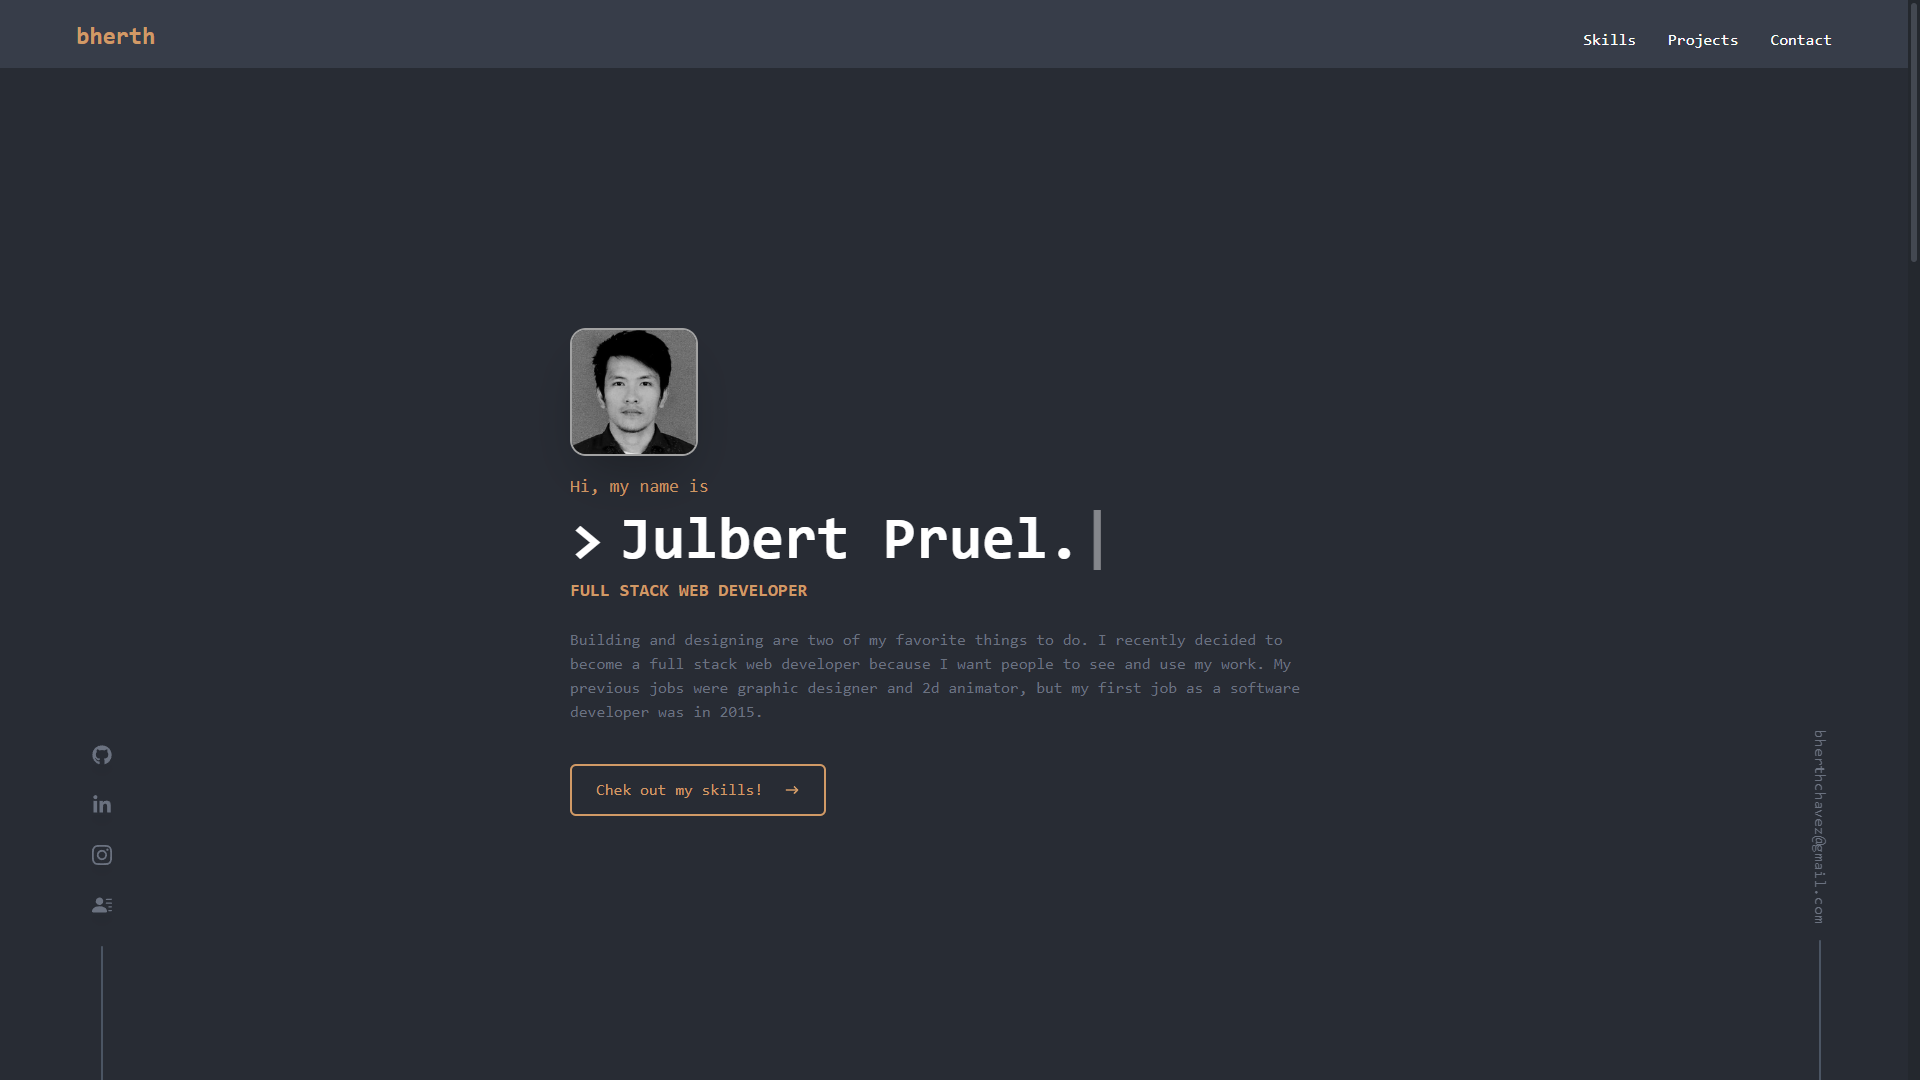
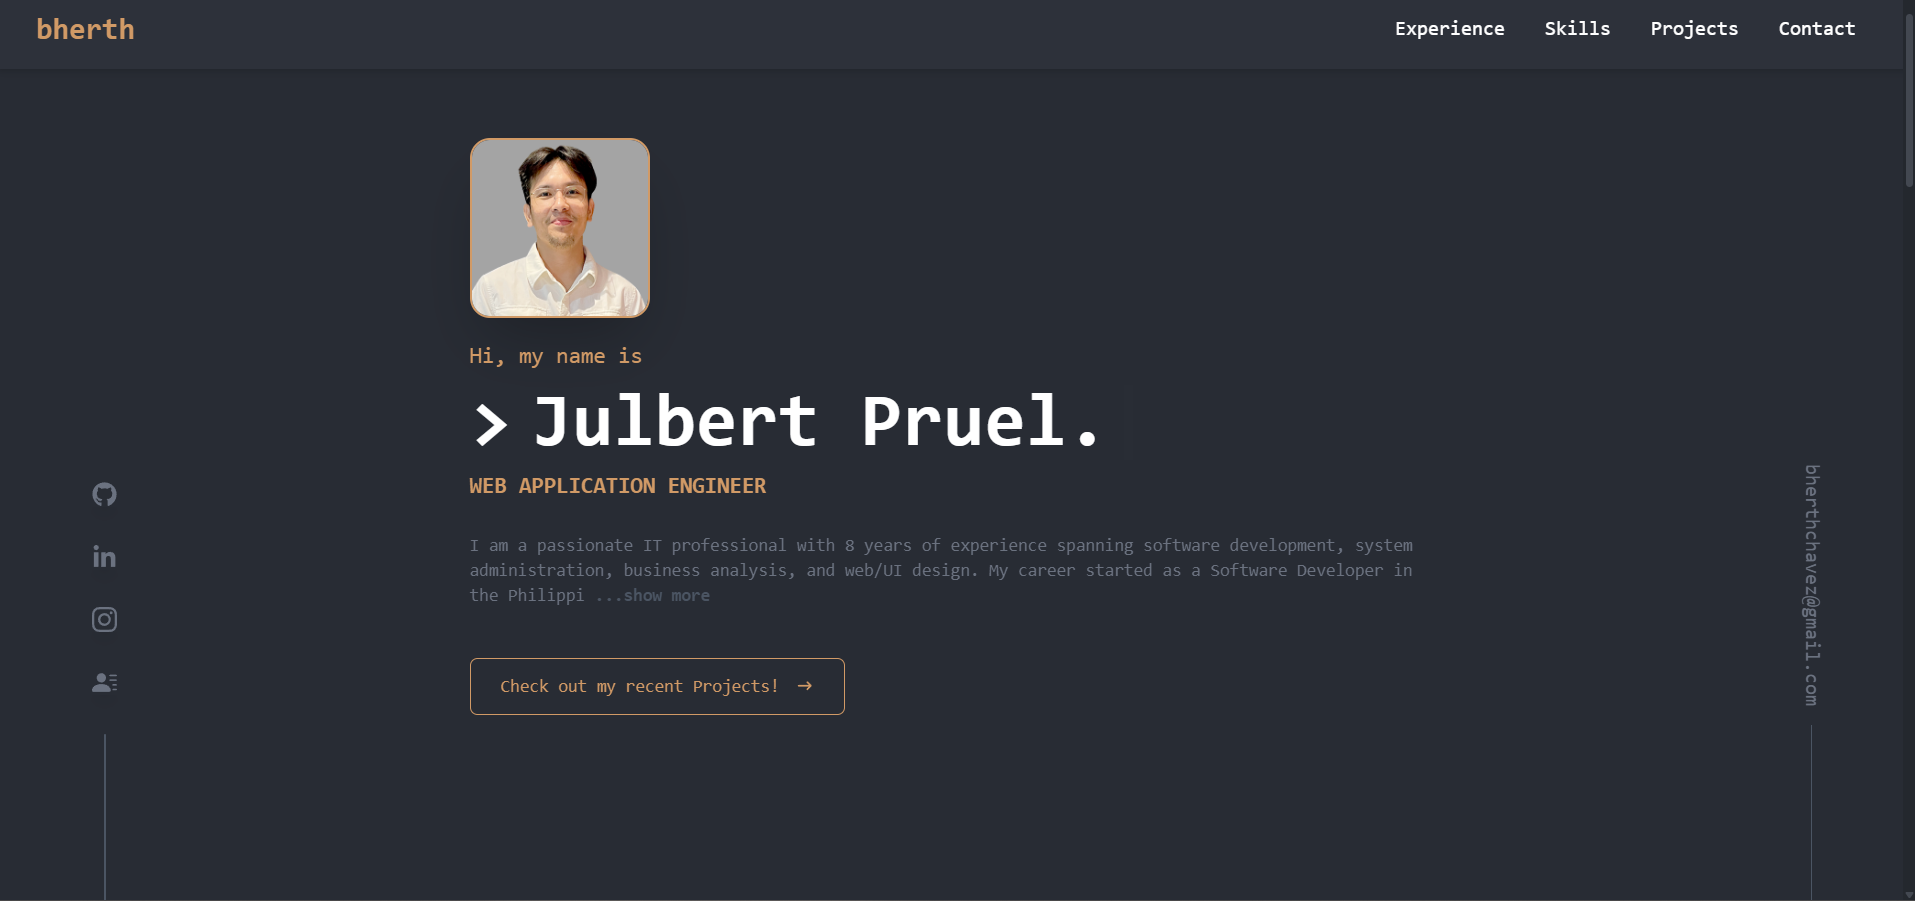
update: description

diff --git a/src/components/ExpData.js b/src/components/ExpData.js
@@ -56,7 +56,7 @@ export const ExpData = [
 // Proficient in the MERN stack, I am particularly skilled in React.js with TypeScript. I am dedicated to crafting exceptional user experiences, harmoniously blending aesthetics and functionality to create visually stunning and user-friendly interfaces.
 
 // My journey began in a renowned web and software development company, where I gained invaluable industry experience. Throughout my career, I have consistently honed my skills, fostering a deep understanding of web development principles and design best practices. Seeking opportunities to contribute expertise and create high-quality web applications that exceed client expectations.`
-export const aboutMe = `I am a passionate IT professional with 8 years of experience spanning software development, system administration, business analysis, and web/UI design. My career started as a Software Developer in the Philippines before moving to Qatar, where I gained multi-industry experience across four companies, sharpening both my technical and analytical skills. Today, I specialize in MERN stack development (React.js, Node.js, MongoDB, Express.js), with strong expertise in React.js with TypeScript, building responsive, scalable, and user-focused applications.
+export const aboutMe = `I am a passionate IT professional with 10 years of experience spanning software development, system administration, business analysis, and web/UI design. My career started as a Software Developer in the Philippines before moving to Qatar, where I gained multi-industry experience across four companies, sharpening both my technical and analytical skills. Today, I specialize in MERN stack development (React.js, Node.js, MongoDB, Express.js), with strong expertise in React.js with TypeScript, building responsive, scalable, and user-focused applications.
 Beyond coding, I bring a creative edge with graphic and UI/UX design experience, allowing me to bridge functionality and aesthetics seamlessly. From developing enterprise systems to crafting intuitive websites and e-commerce platforms, my goal is to deliver impactful digital solutions that exceed client expectations. I’m now looking forward to contributing my skills to forward-thinking teams, building innovative web applications, and driving success through technology.`
 
 
